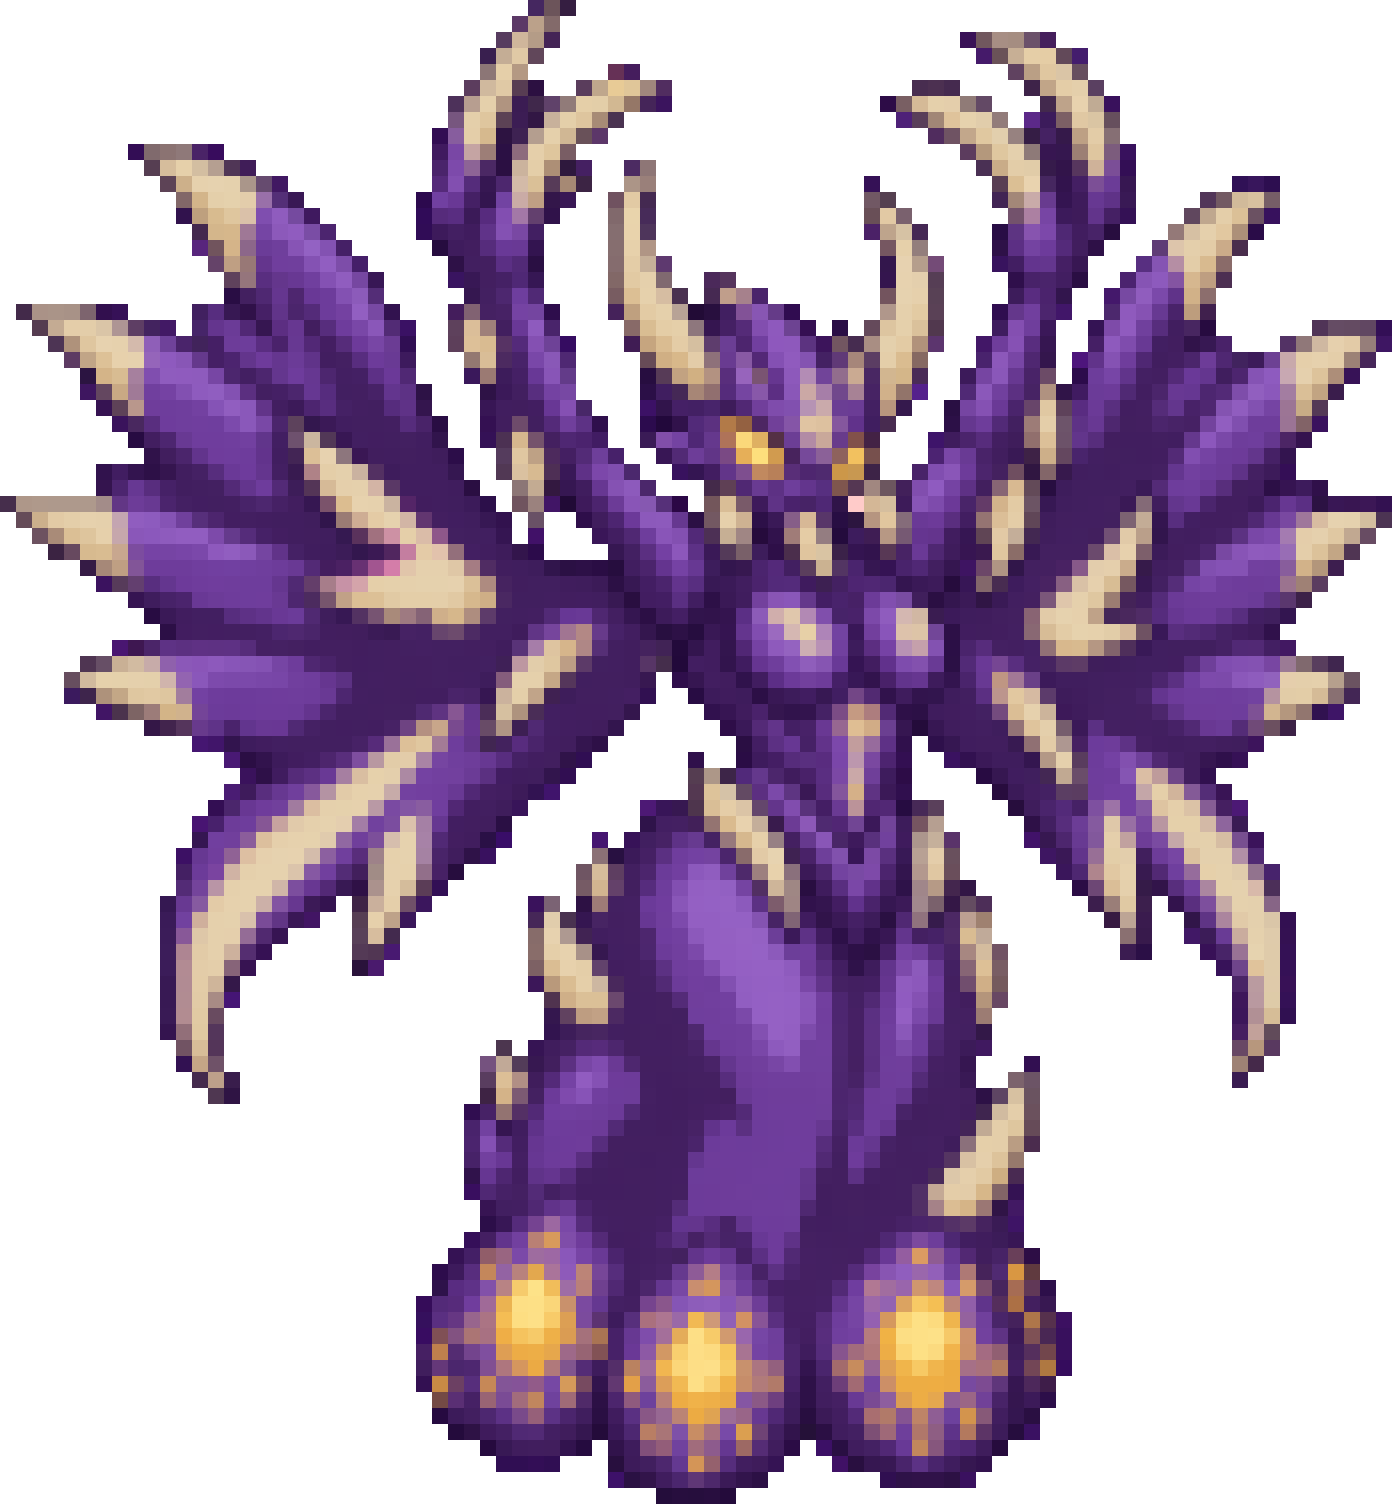
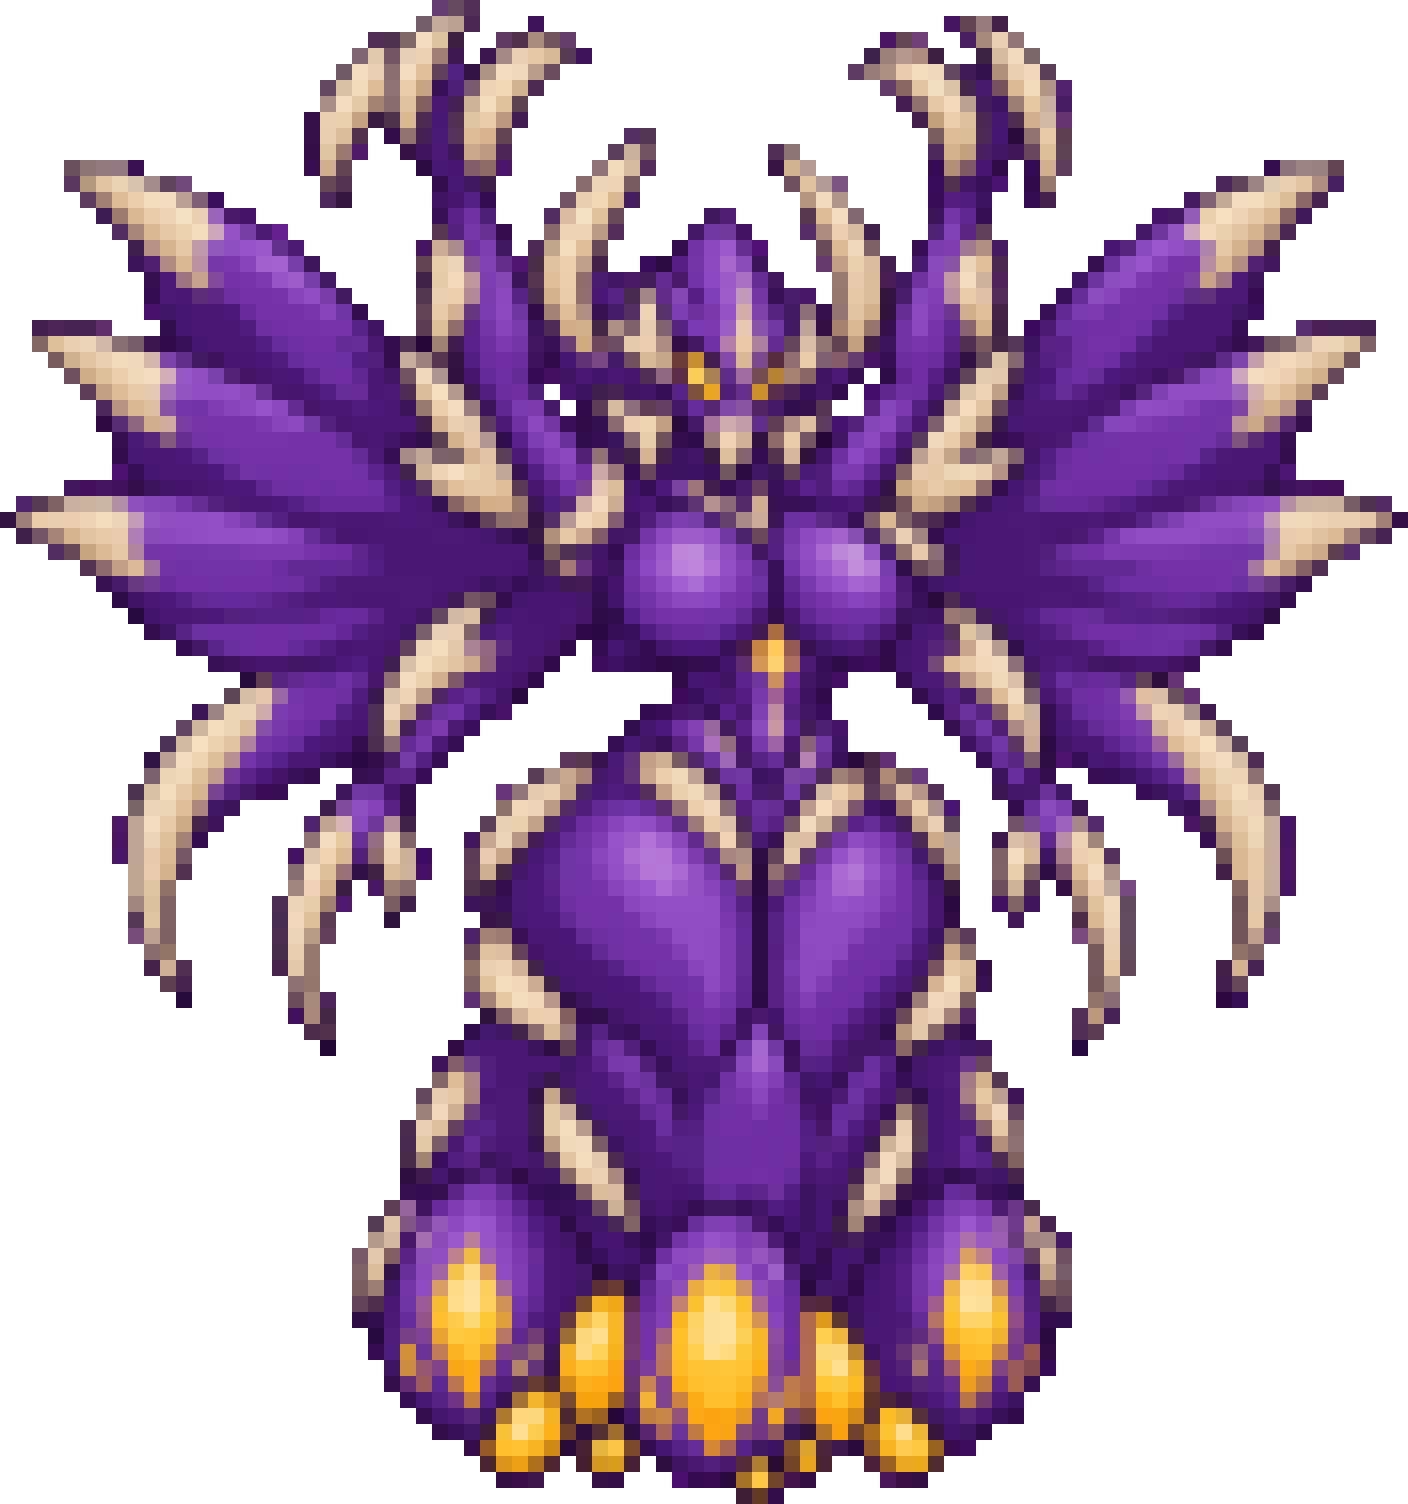
Act IX art review R1 (figures): the Hive Mother redrawn with wider hips and a bigger bust (still, cast, strike and Flight poses, strips refit)
Claude-Session: https://claude.ai/code/session_01TjA5CNwUWb95gMazj5Z3qp

diff --git a/tools/walk_cycle.py b/tools/walk_cycle.py
@@ -910,7 +910,7 @@ RIGS = {
     "concord/lumen_sentinel": dict(mode="robe", hip=28, rigid=[(14, 20, 0, None)], sway=1, dip=1),
     "concord/prism": dict(mode="robe", hip=28, rigid=[], sway=1, dip=1, bust=(7, 15, 10, 16, 1, 2),
                           bust_exclude=[(15, 20, 8, 20)], swish=(5, 17, 24, 38, 1)),
-    "bosses/hive_mother": dict(mode="robe", hip=62, rigid=[], sway=1, dip=1, bust=(33, 50, 32, 44, 2, 2)),
+    "bosses/hive_mother": dict(mode="robe", hip=62, rigid=[], sway=1, dip=1, bust=(36, 53, 31, 41, 2, 2)),  # Act IX R1 redo: refit to the new, fuller still (the cream hooks beside the lobes stay outside the box).
     # --- Act IX: the Crash Site --- (the Brood's soldiers walk on their legs; the Matriarch and the Hive Mother's
     # Flight form hover; the Broodbound glides in her chitin gown with the bust bounce and an idle strip)
     "concord/burrower": dict(mode="legs", hip=26, back=(0, 16), front=(16, 32), rigid=[], spread=1, lift=1, dip=1),

diff --git a/art_source/crash_site/make_art.py b/art_source/crash_site/make_art.py
@@ -35,6 +35,7 @@ UNITS = {
 }
 # Figures put on the art grid first (pixelate_source.py): key -> (raw source, art height, extra arguments).
 FIGURES = {
+    "bosses/hive_mother": ("raw/hive_mother.png", 96, ["--ramps", "hive,hive_bone,gold", "--no-prune", "--no-levels"]),  # R1 redo: wider hips, bigger bust
     "bosses/hive_mother_cast": ("raw/hive_mother_cast.png", 96, ["--ramps", "hive,hive_bone,gold", "--no-prune", "--no-levels"]),
     "bosses/hive_mother_strike": ("raw/hive_mother_strike.png", 96, ["--ramps", "hive,hive_bone,gold,brown", "--no-prune", "--no-levels"]),
     "bosses/hive_mother_flight": ("raw/hive_mother_flight.png", 96, ["--ramps", "hive,hive_bone,gold", "--no-prune", "--no-levels"]),

diff --git a/docs/act9/ART_REDO_R1.md b/docs/act9/ART_REDO_R1.md
@@ -1,0 +1,32 @@
+# Act IX art review, round 1: the redo brief
+
+The owner's marks on the round 1 page (https://claude.ai/artifact/SyqRn6F4zNf3ifxHQKXW8L, db collection `act9_art_r1`):
+128 OK and 34 Redo. Everything not listed here is approved and must not change.
+
+The common rules of `docs/act8/ART_REDO_R1.md` apply (and through it `docs/act6/ART_REDO_R2.md` and
+`docs/act5/ART_REDO_R1.md`): the pipeline, the ledger, the checks, at most 1 Godot process (check `pgrep -c Godot`), a
+GDD §15.0 row "Act IX art review, round 1 (<group>)", commit trailers, no push, never touch an API key. **A bust box moves
+only bust pixels** (`bust_exclude` for arms). Rig keys: `bust`, `swish`, `bust_exclude`, `pendulums`, `hold`, `flap`,
+`wings`, `orbit`, `smoke`, `wheels`, `rotor`, `tail`, `recoil`, `muzzle`, `breath`, and the robe / hover / glide modes.
+Concord units never use the necromancer's violet + bone. Every prompt names the figure's sex; female figures in the
+figure-redesign style, chest and hips covered.
+
+## Group A: rigs and a recolour (branch `act9-redo1-rigs`)
+No new images.
+
+| Key | Owner's note | What to do |
+|---|---|---|
+| `bosses/harvester_walk` | "another floater" | Replace the leg stride with a hover / glide strip (the robe-glide or hover mode other floating figures use: body bobs, robe hem sways, no steps). |
+| `concord/grey_overseer_walk` | "make him float instead of walk" | The same hover strip. |
+| `concord/luminous_archon_walk` | "another to make float" | The same hover strip (keep her bust rig if she has one). |
+| `player/blooded_idle`, `_walk`, and the `_hyper`, `_untouchable`, `_deathlord` idle and walk | "extend bounce box 4 pixels to the right" | Bust box x1 + 4 on the base and every skin (skins that derive the box follow; skins with their own box get it too). Keep any arm exclusion so only bust pixels move. |
+| `effects/acid_pool` | "Should be green since it's acid" | Recolour the acid puddle mask / tint to an acid green (the Concord plasma green ramp); if the code tints it, change the tint constant in the data instead and say where. |
+
+## Group B: figures (branch `act9-redo1-figures`)
+New images, budget about $0.45. Rebuild each figure's strips and fit its rig.
+
+| Key | Owner's note | What to do |
+|---|---|---|
+| `bosses/hive_mother` (+ `_cast`, `_strike`, `_flight`, `_flight_walk`, `_idle`, `_walk`) | "Wider hips and bigger bust" | Regenerate the Hive Mother (female, insectoid queen, figure-redesign style pushed further: wider hips, bigger bust, chest and hips covered by chitin plates) from her approved concept and the current sprite; keep her colours and silhouette type. Then rebuild every pose sprite and strip from the new still (the attack poses `_cast`, `_strike` and the `_flight` form too), and refit her bust box and arm exclusion. |
+| `player/broodbound` (+ every skin: `_hyper`, `_untouchable`, `_deathlord`, all idle and walk strips) | "It's hard to see the details here. Can we redesign this? Make her look more like an alien or a bug" | Redesign her as a clearly alien, insect-like woman (female): chitin plating, antennae or mandible-like crest, compound-eye sheen, insect limbs or wing-cases, in strong readable colours that separate from dark floors (not near-black). Figure style, covered. Then remake the three skins from the new base (each skin's own colour scheme and emblem, as other characters' skins), rebuild all strips, refit the bust box. |
+| `player/starborn_deathlord` (+ `_idle`, `_walk`) | "Maybe give some kind of black mask on this one? Just doesn't look right" | Regenerate (or edit) the Deathlord skin with a black mask over the face (a sleek visor or half-mask), keeping the approved base Starborn's figure and pose and the Deathlord colours. Rebuild strips, refit the box. |
